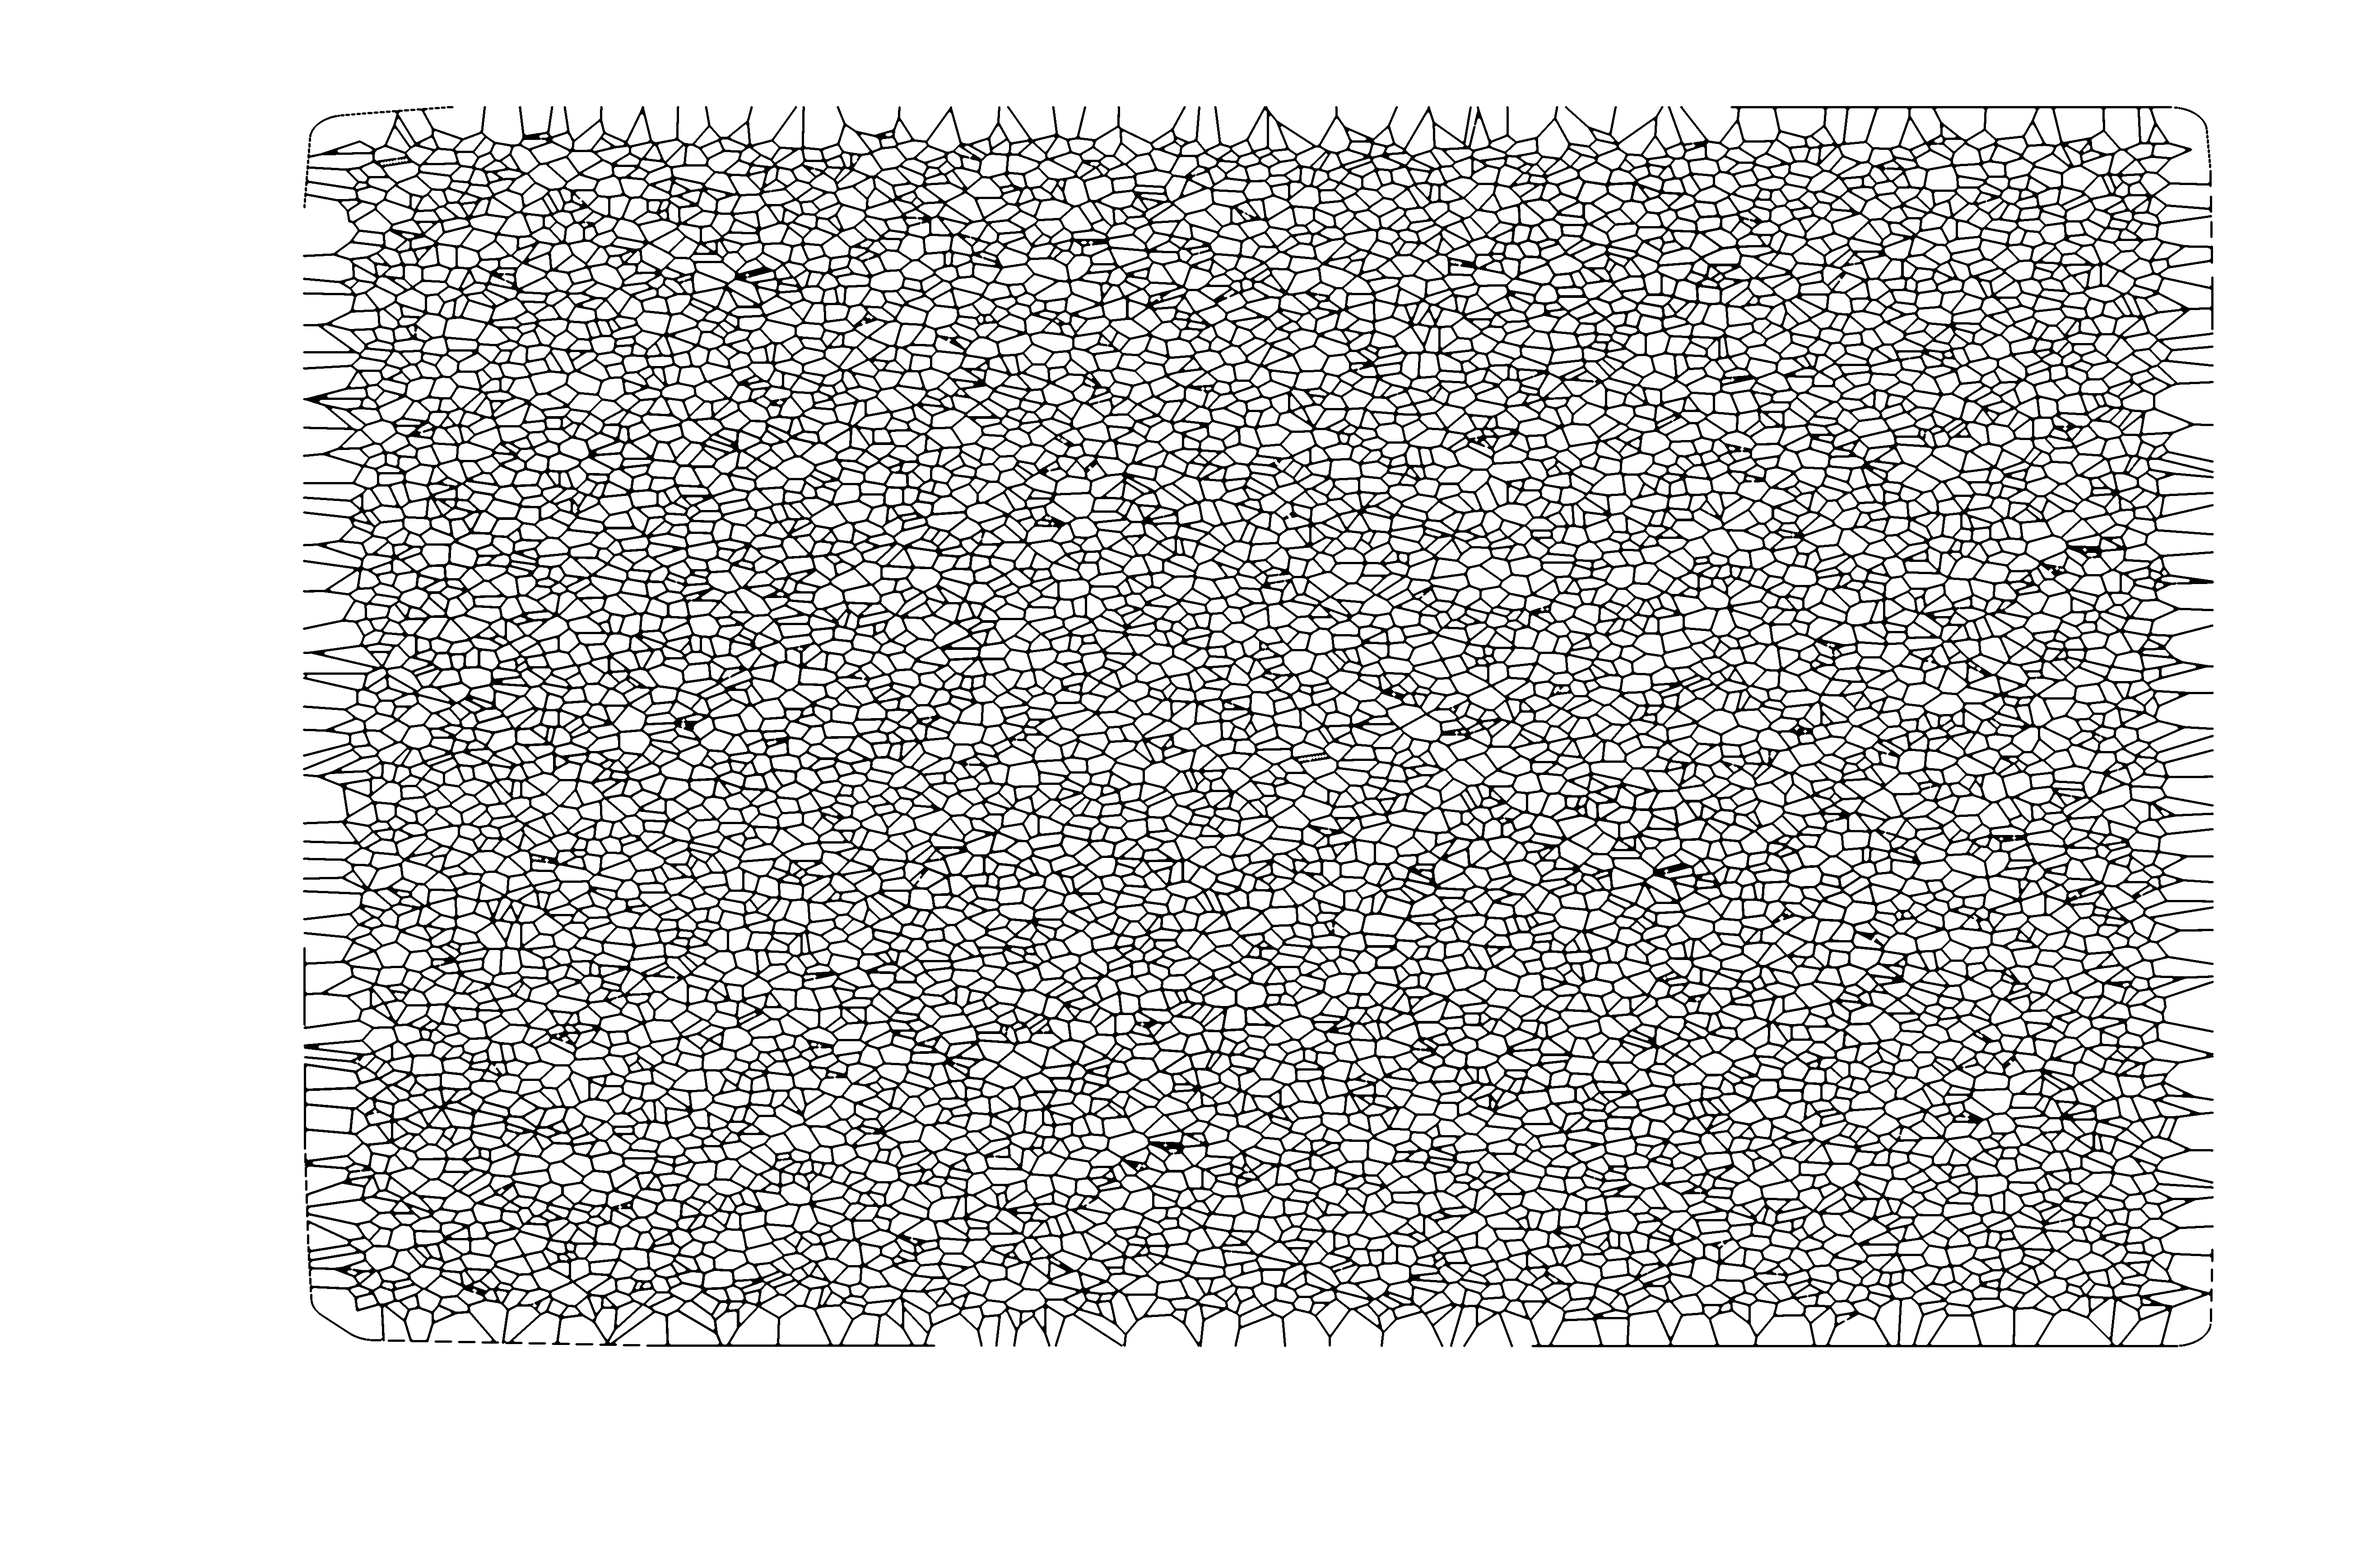
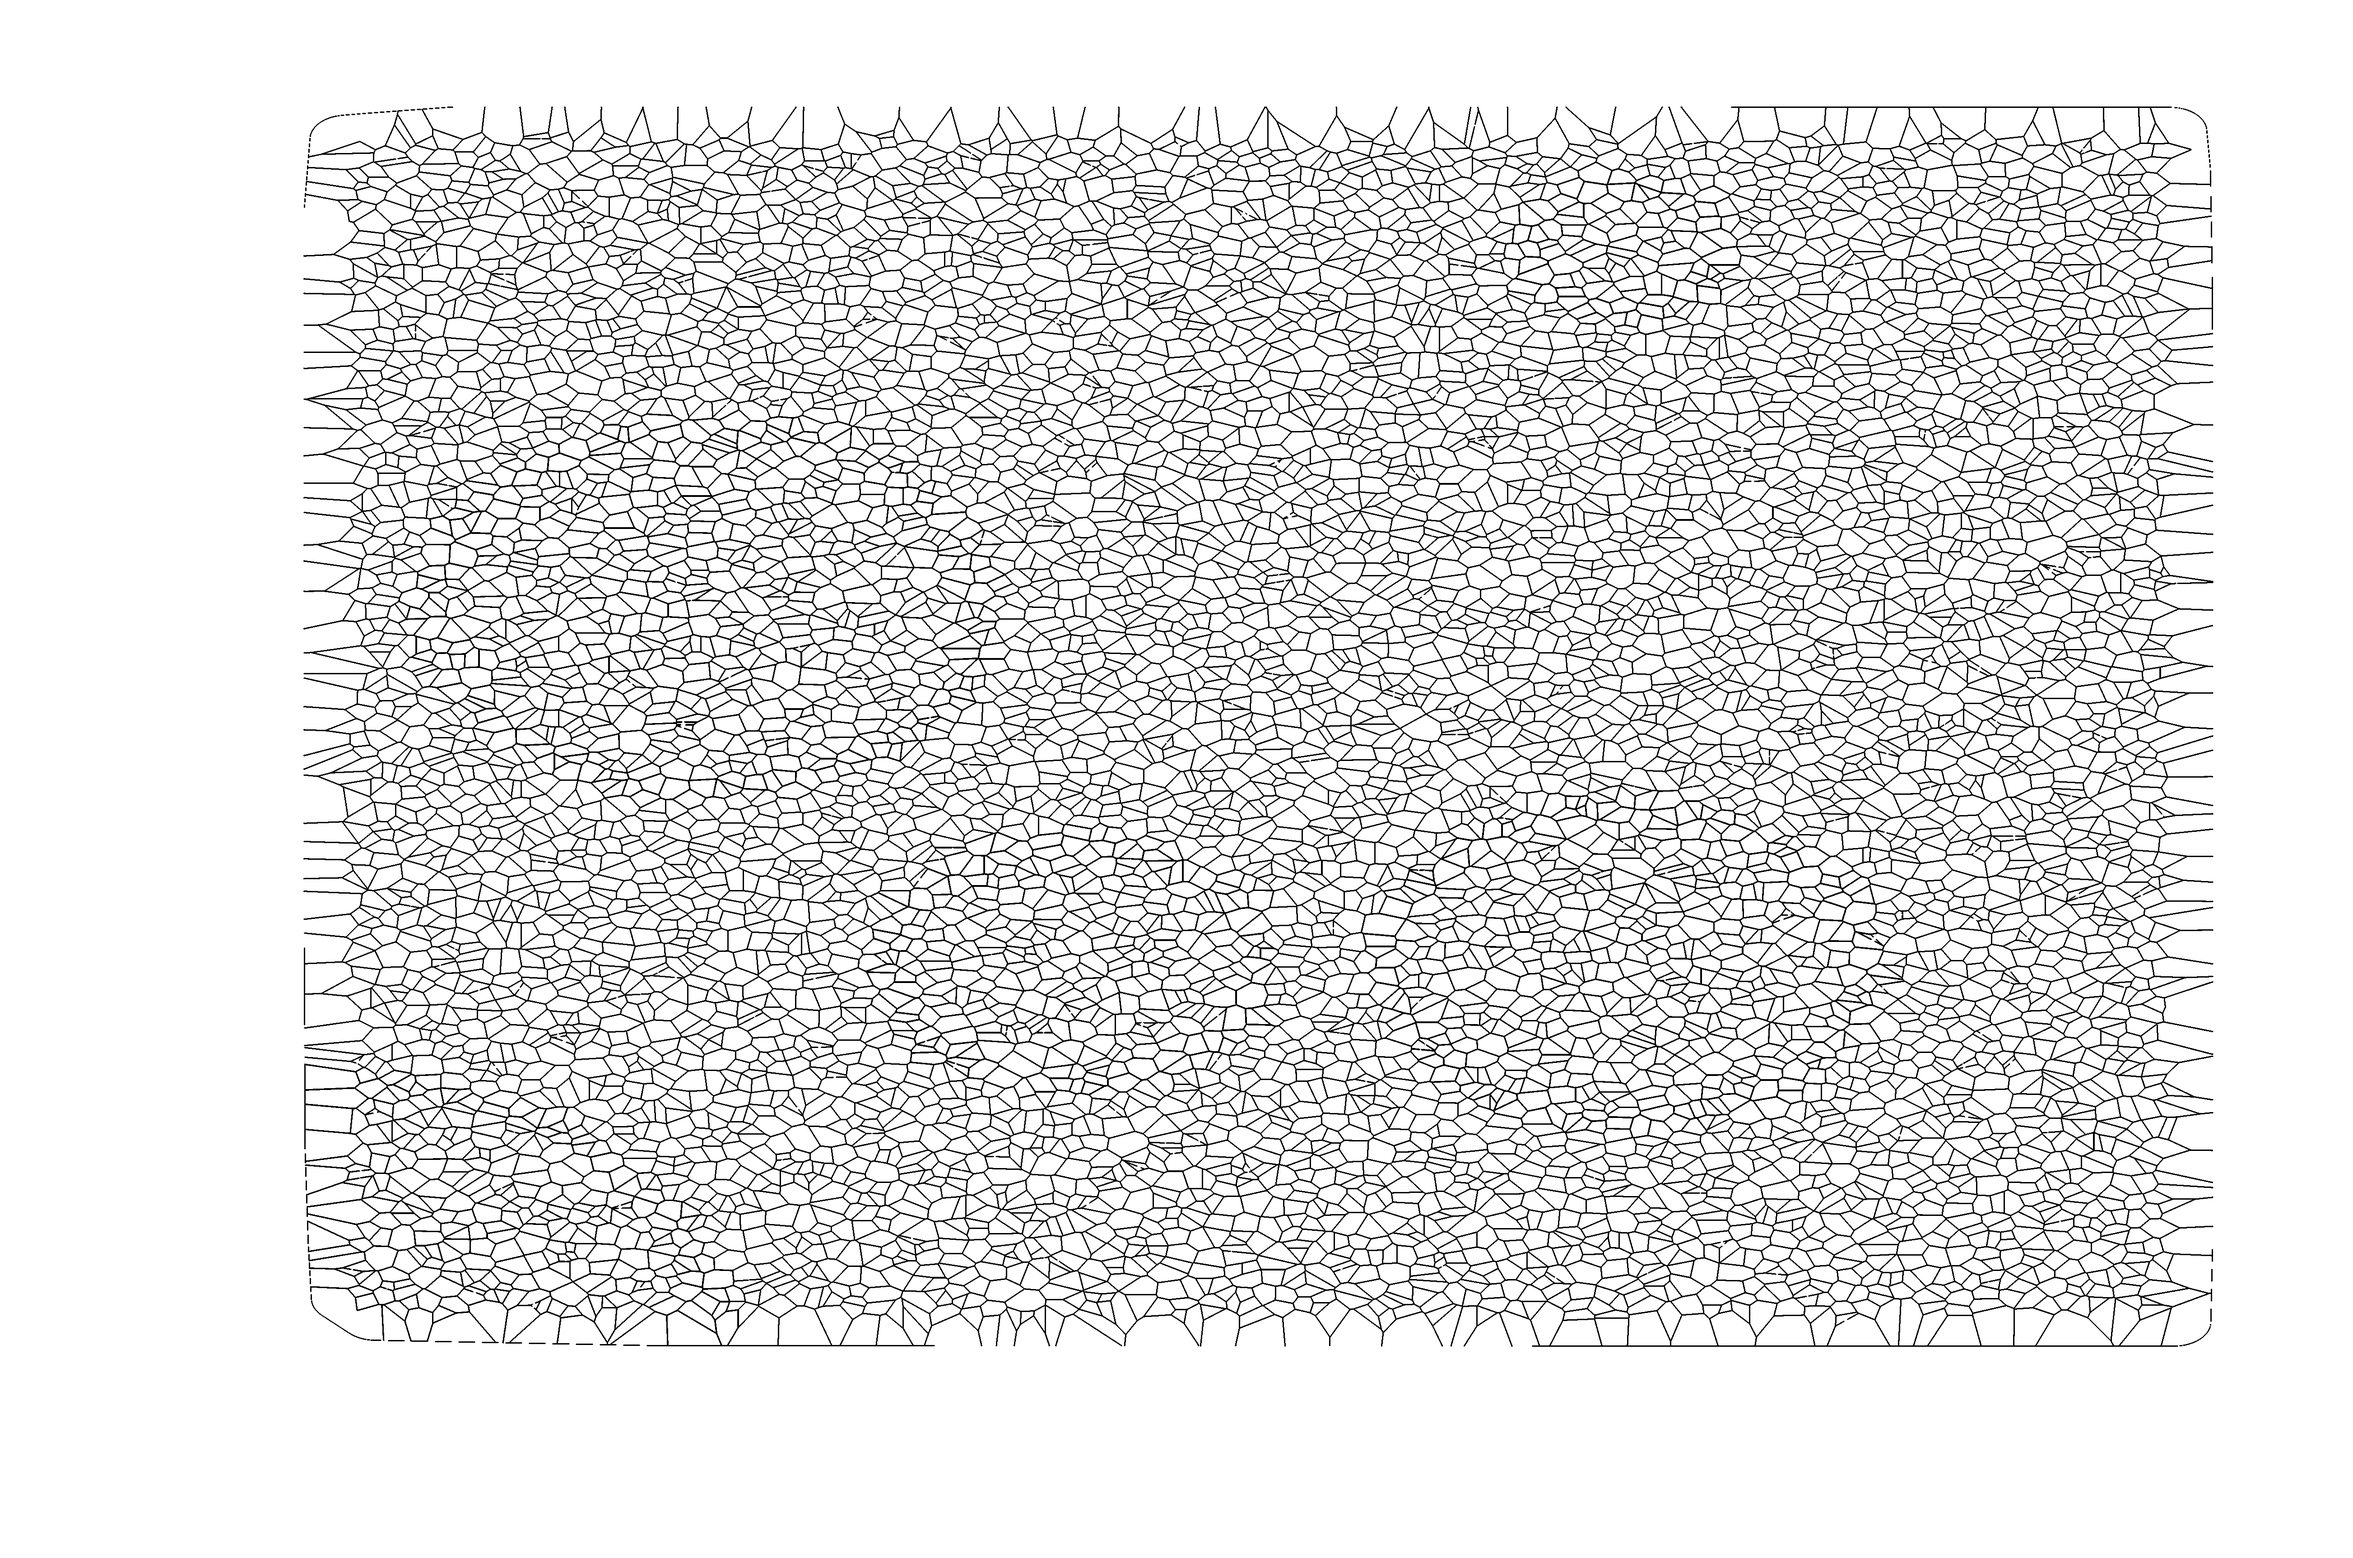
lumes and boundaries

Changed region(s): [[0.1554, 0.093, 0.9325, 0.8369], [0.8703, 0.341, 0.9014, 0.372], [0.2487, 0.279, 0.2797, 0.31]]

diff --git a/voronoi/circle/From voronoi/labeloncircle.py b/voronoi/circle/From voronoi/labeloncircle.py
@@ -6,7 +6,8 @@ from shapely.ops import polygonize,unary_union
 from shapely.geometry import LineString, MultiPolygon, MultiPoint, Point, Polygon
 from scipy.spatial import Voronoi
 from SALib.sample import saltelli
-from skimage import io, morphology, img_as_uint, img_as_ubyte, filters
+from skimage import io, morphology, img_as_uint, img_as_ubyte, filters, color
+from skimage import util
 
 #structure elements for recognizing features
 s = [[1,1,1],
@@ -21,13 +22,21 @@ v_select = np.vectorize(select)
 #%%
 ####BIG IMAGE
 image = io.imread('bw_nuclei_bound.png')
-np.unique(image)
 image.shape
-image[:,:,1] = np.zeros(image[:,:,1].shape)
-image[:,:,2] = np.zeros(image[:,:,2].shape)
-image[:,:,3] = np.zeros(image[:,:,3].shape)
+temp = np.zeros((image.shape[0], image.shape[1], 5))
+temp.shape
+temp[:,:,0] = image[:,:,0]
+image = temp
+"""
+0: image
+1: nuclei
+2: cells
+3: lumes
+4: boundaries
+"""
 
-#%% Finding all the selections
+
+#%% -------- Finding all the selections ---------
 # val = list(np.linspace(0,255,num=10))
 # for min, max in zip(val, val[1:]):
 #     sel_image = v_select(image[:,:,0], bot=min, top=max)
@@ -47,115 +56,63 @@ np.unique(nuclei)
 io.imsave('nuclei.png'.format(min, max),img_as_ubyte((nuclei>0).astype(float)))
 
 nuclei_lab, n_nuclei = label(nuclei, structure = s)
-n_nuclei
+print(n_nuclei)
 image[:,:,1] = image[:,:,1] + nuclei_lab
 #%%
 #Finding all the cells (3% error)
 cells = io.imread('selections/0_28.33_selection.png')
 cells = cells - nuclei
 cells = morphology.binary_dilation(cells)
-cells = morphology.binary_dilation(cells)
-cells = morphology.binary_dilation(cells)
-cells = morphology.binary_dilation(cells)
-cells = morphology.binary_dilation(cells)
-
-cells = morphology.binary_erosion(cells)
-cells = morphology.binary_erosion(cells)
-cells = morphology.binary_erosion(cells)
-cells = np.invert(cells)
+cells = np.invert(cells)*255
+np.unique(cells)
 
 io.imsave('cells.png',img_as_ubyte((cells>0).astype(float)))
 cells_lab, n_cells = label(cells, structure = s)
-n_cells
+print(n_cells)
 image[:,:,2] = image[:,:,2] + cells_lab
+
 #%%
 #Selecting lumes
 lumes = io.imread('selections/142_170.00_selection.png')
-lumes = morphology.binary_erosion(lumes)
-lumes = morphology.binary_erosion(lumes)
-lumes = morphology.binary_dilation(lumes)
-lumes = morphology.binary_dilation(lumes)
-lumes = morphology.binary_dilation(lumes)
-lumes = morphology.binary_dilation(lumes)
-lumes = morphology.binary_dilation(lumes)
-lumes = morphology.binary_dilation(lumes)
-lumes = morphology.binary_erosion(lumes)
-lumes = morphology.binary_erosion(lumes)
-lumes = morphology.binary_erosion(lumes)
-lumes = morphology.binary_erosion(lumes)
-lumes = lumes*255
+l = 20
+selem = np.resize(np.array([1]*l**2), (l, l))
+lumes = filters.median(lumes, selem=selem, out=None, mask=None, shift_x=False, shift_y=False, mode='nearest', cval=0.0, behavior='ndimage')
 io.imsave('lumes.png',img_as_ubyte((lumes>0).astype(float)))
 
 lumes_lab, n_lumes = label(lumes, structure = s)
-n_lumes
+print(n_lumes)
 image[:,:,3] = image[:,:,3] + lumes_lab
 
 #%%
 #Selecting boundaries
-
 #TO DO : insert a control on the area of the features. soppress the too small ones
 bounds = io.imread('selections/57_85.00_selection.png')
 l = 20
 selem = np.resize(np.array([1]*l**2), (l, l))
-filts = filters.median(bounds, selem=selem, out=None, mask=None, shift_x=False, shift_y=False, mode='nearest', cval=0.0, behavior='ndimage')
-io.imsave('filts.png',img_as_ubyte((filts>0).astype(float)))
-
-bounds = morphology.binary_erosion(bounds)
-bounds = bounds*255
-bounds = bounds + filts
+bounds = filters.median(bounds, selem=selem, out=None, mask=None, shift_x=False, shift_y=False, mode='nearest', cval=0.0, behavior='ndimage')
 io.imsave('bounds.png',img_as_ubyte((bounds>0).astype(float)))
+
 bounds_lab, n_bounds = label(bounds, structure = s)
 print(n_bounds)
-image[:,:,3] = image[:,:,3] - bounds_lab
-
+image[:,:,4] = image[:,:,4] + bounds_lab
 #%%
-
 #-------------------------------------------------------------------------------
+bounds_hue = np.zeros((bounds_lab.shape))
+bounds_sat = np.zeros((bounds_hue.shape))
+bounds_val = np.ones((bounds_hue.shape))
 
+hue = np.linspace(0,1, num=n_bounds+2)
+hue_dict = {n : h for n,h in enumerate(hue)}
 
+for n,h in hue_dict.items():
+    bounds_hue[np.where(bounds_lab == n)]= h
+    bounds_hue[np.where(lumes_lab == n)] = h
 
+bounds_sat[np.where(bounds_lab > 0)] = 1
+bounds_sat[np.where(lumes_lab > 0)] = 0.3
 
+hsv_bounds = np.stack((bounds_hue, bounds_sat, bounds_val), axis = 2)
 
-
-
-
-
-sel_epits = v_select(image[:,:,0], top = 30)
-#sel_epits = morphology.binary_dilation(sel_epits)
-epits, n_epits = label(sel_epits, structure = s)
-#Saving labels
-image[:,:,1] = image[:,:,1] + epits
-io.imsave('big_epits.png', img_as_ubyte((epits>0).astype(float)))
+io.imsave('rgb_bounds.png',color.hsv2rgb(img_as_ubyte(hsv_bounds)))
 #%%
-#Selecting epitelia
-sel_lumes = v_select(image[:,:,0], bot = 31, top = 200)
-lumes, n_lumes = label(sel_lumes, structure = s)
-n_lumes
-n_erosion = 0
-n_epits
-
-while n_lumes > n_epits:
-    print("erosion")
-    sel_lumes = morphology.binary_erosion(sel_lumes)
-    lumes, n_lumes = label(sel_lumes, structure = s)
-    n_erosion =+ n_erosion
-
-for _ in range(n_erosion):
-    print("dilation")
-    sel_lumes = morphology.binary_dilation(sel_lumes)
-
-#Saving labels
-image[:,:,1] = image[:,:,1] - lumes
-io.imsave('big_lumes.png',img_as_ubyte((lumes>0).astype(float)))
-
-#%%
-#Selecting background
-sel_back = v_select(image[:,:,0], bot = 201)
-backg, _ = label(sel_back, structure = s)
-io.imsave('big_backg.png',img_as_ubyte((backg>0).astype(float)))
-#%%
-#Testing correspondece between identified regions
-np.unique(image[:,:,1])
-epit1 = image[:,:,1] == 2
-lume1 = image[:,:,1] == 256 -2
-cell1 = epit1 + lume1
+#-------------------------------------------------------------------------------

diff --git a/Brain Challenge/Scripts/24-7/res_50_25_10.py b/Brain Challenge/Scripts/24-7/res_50_25_10.py
@@ -101,10 +101,9 @@ melt_y_df.head()
 lp = sns.lmplot(data=melt_y_df,
                 x='y_test',
                 y='y_pred',
-                hue='run', # <== 😀 Look here!
-                #palette={"red": "#FF9999", "white": "#FFE888"},
-                robust=True, # <== 😀 Look here!
+                hue='run',
+                robust=True,
                 legend=True,\
-                scatter_kws = dict(alpha = 0.7))                #scatter_kws=dict(edgecolor="k", linewidth=0.5))
+                scatter_kws = dict(alpha = 0.7))
 
 g.fig.suptitle('Linear regression $R^2$={:.2f}'.format(r_value**2))
